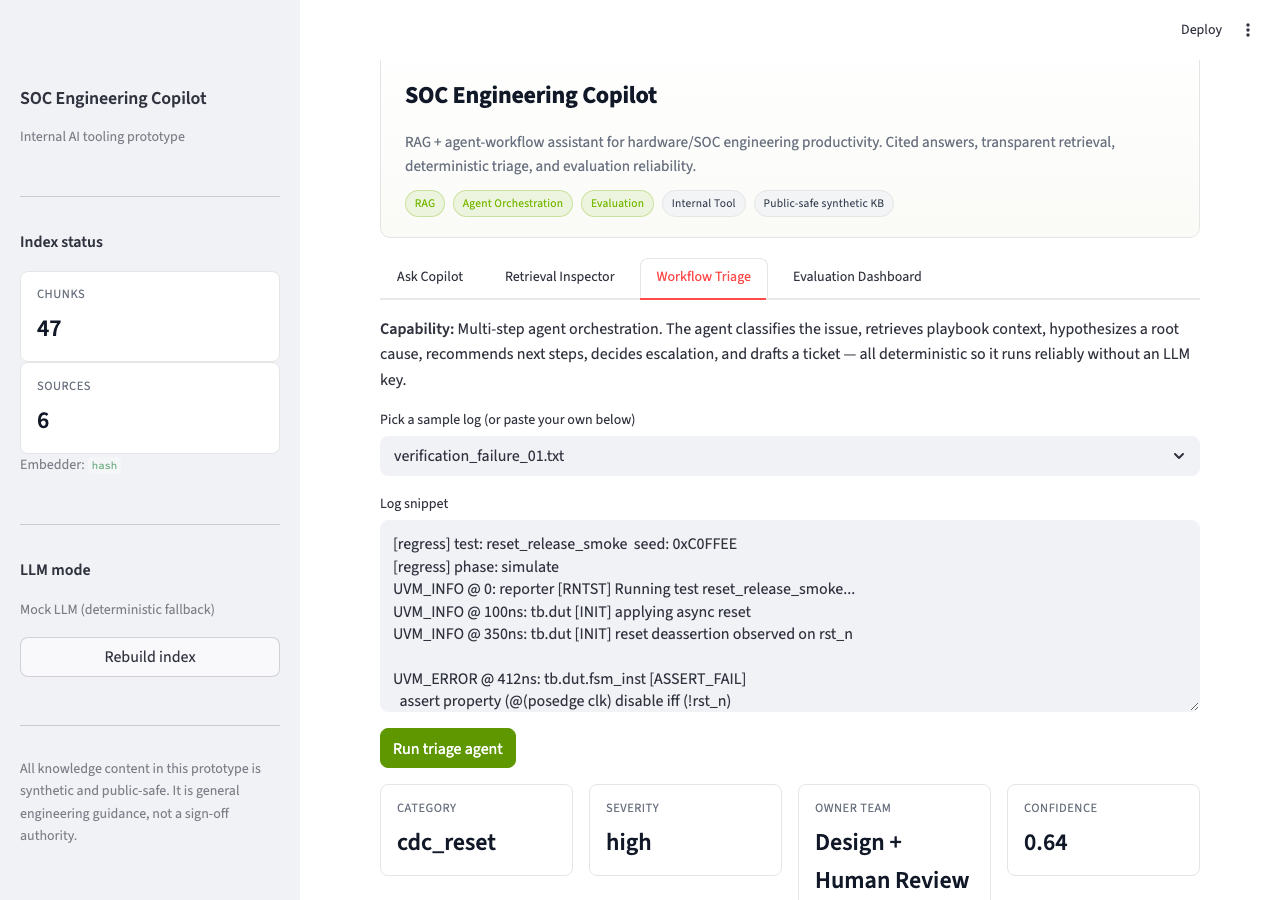
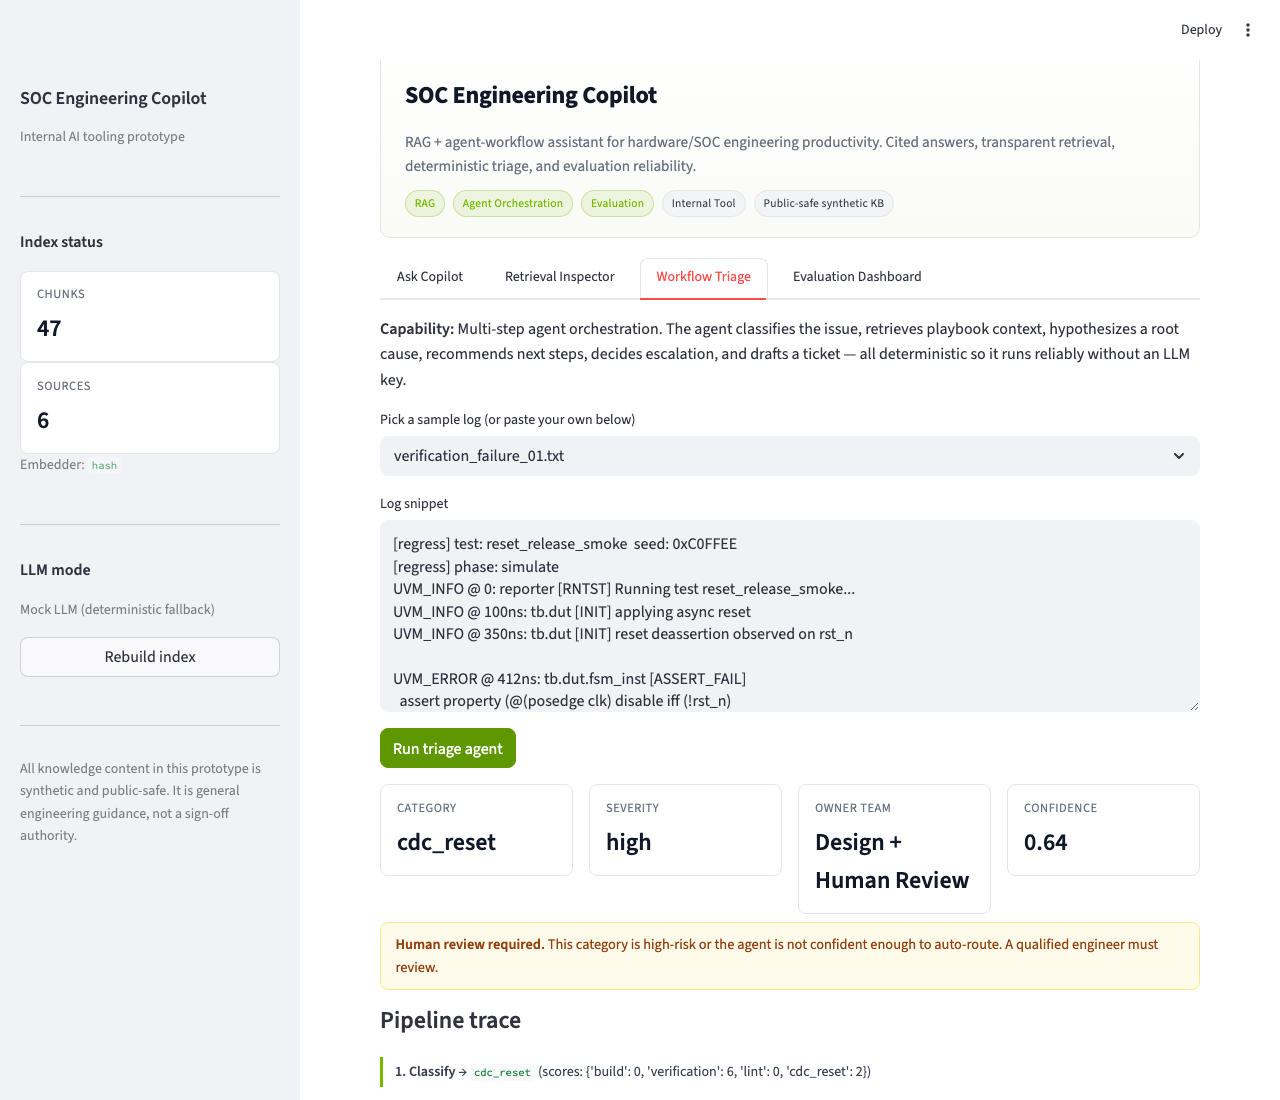
Add live demo link and polish triage screenshot
- README: update Quick demo text with live app link
- docs/deployment.md: add deployed-on / entrypoint / mock-LLM / secrets policy header
- docs/screenshots/03_triage_agent.png: retake as full-page; now shows all
  four output cards (category/severity/owner/confidence), Human review
  required banner, and Pipeline trace — not just the input form
- src/config.py: add "ip block" and "soc integration" to HIGH_RISK_TOPICS
  so IP-block integration questions trigger topic-level gating explicitly
  (previously caught only via confidence threshold; all 27 tests still pass)

diff --git a/src/config.py b/src/config.py
@@ -47,6 +47,8 @@ HIGH_RISK_TOPICS: tuple[str, ...] = (
     "metastability",
     "integration sign-off",
     "ip integration",
+    "ip block",
+    "soc integration",
     "assertion failure",
     # Sign-off, approval, and proprietary-data requests — always escalate
     "sign off",

diff --git a/README.md b/README.md
@@ -8,7 +8,7 @@
 
 > Portfolio project targeting **NVIDIA JR2017063 — SOC AI Application Engineer (AI Services, Agents and Knowledge Systems), Shanghai**. The knowledge base is synthetic and public-safe; this prototype is not a sign-off authority and does not use proprietary data.
 
-**Quick demo:** run `streamlit run app.py` locally — or see the screenshots below.
+**Quick demo:** open the [live Streamlit app](https://soc-ai-copilot.streamlit.app/), run `streamlit run app.py` locally, or review the screenshots below.
 
 ## At a glance
 

diff --git a/docs/deployment.md b/docs/deployment.md
@@ -1,6 +1,10 @@
 # Deployment Guide — Streamlit Community Cloud
 
 **Live app:** https://soc-ai-copilot.streamlit.app/
+**Deployed on:** Streamlit Community Cloud
+**App entrypoint:** `app.py`
+**Default mode:** deterministic mock LLM fallback — no `OPENAI_API_KEY` required for the public demo
+**API key policy:** optional `OPENAI_API_KEY` must be configured only through Streamlit Cloud Secrets, never committed to the repository
 
 ## Quick deploy
 
